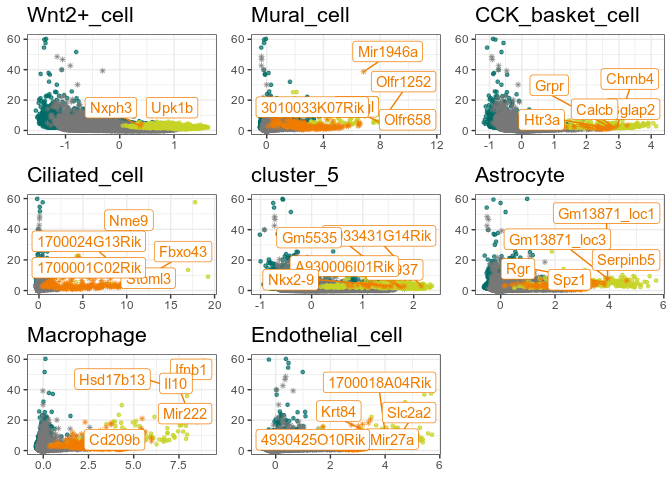
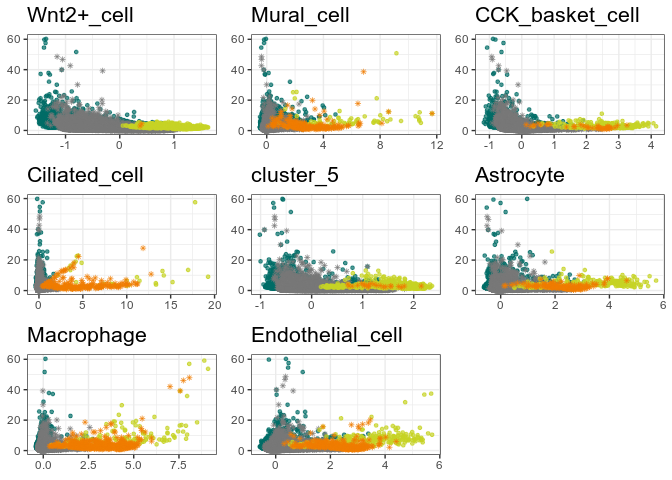
update readme

diff --git a/README.md b/README.md
@@ -13,9 +13,6 @@ can be installed through GitHub:
 devtools::install_github("ClemensKohl/CAdir")
 ```
 
-    Skipping install of 'CAdir' from a github remote, the SHA1 (7528e640) has not changed since last install.
-      Use `force = TRUE` to force installation
-
 Note that currently you have to also install CAbiNet from GitHub for the
 package to function.
 
@@ -24,119 +21,25 @@ package to function.
 Download example data and perform basic preprocessing:
 
 ``` r
-devtools::load_all("~/gits/ClemensKohl/CAdir/")
+suppressPackageStartupMessages({
+  library(CAdir)
+  library(APL)
+
+  # packages for loading the example:
+  library(scRNAseq)
+  library(scran)
+  library(scater)
+  library(scuttle)
+})
 ```
 
-    ℹ Loading CAdir
-
-    Warning: multiple methods tables found for 'acbind'
-
-    Warning: multiple methods tables found for 'arbind'
-
-    Warning: replacing previous import 'utils::findMatches' by
-    'S4Vectors::findMatches' when loading 'AnnotationDbi'
-
-``` r
-library(APL)
-
-# packages for loading the example:
-library(scRNAseq)
-```
-
-    Loading required package: SingleCellExperiment
-    Loading required package: SummarizedExperiment
-    Loading required package: MatrixGenerics
-    Loading required package: matrixStats
-
-    Attaching package: 'MatrixGenerics'
-
-    The following objects are masked from 'package:matrixStats':
-
-        colAlls, colAnyNAs, colAnys, colAvgsPerRowSet, colCollapse,
-        colCounts, colCummaxs, colCummins, colCumprods, colCumsums,
-        colDiffs, colIQRDiffs, colIQRs, colLogSumExps, colMadDiffs,
-        colMads, colMaxs, colMeans2, colMedians, colMins, colOrderStats,
-        colProds, colQuantiles, colRanges, colRanks, colSdDiffs, colSds,
-        colSums2, colTabulates, colVarDiffs, colVars, colWeightedMads,
-        colWeightedMeans, colWeightedMedians, colWeightedSds,
-        colWeightedVars, rowAlls, rowAnyNAs, rowAnys, rowAvgsPerColSet,
-        rowCollapse, rowCounts, rowCummaxs, rowCummins, rowCumprods,
-        rowCumsums, rowDiffs, rowIQRDiffs, rowIQRs, rowLogSumExps,
-        rowMadDiffs, rowMads, rowMaxs, rowMeans2, rowMedians, rowMins,
-        rowOrderStats, rowProds, rowQuantiles, rowRanges, rowRanks,
-        rowSdDiffs, rowSds, rowSums2, rowTabulates, rowVarDiffs, rowVars,
-        rowWeightedMads, rowWeightedMeans, rowWeightedMedians,
-        rowWeightedSds, rowWeightedVars
-
-    Loading required package: GenomicRanges
-    Loading required package: stats4
-    Loading required package: BiocGenerics
-
-    Attaching package: 'BiocGenerics'
-
-    The following objects are masked from 'package:stats':
-
-        IQR, mad, sd, var, xtabs
-
-    The following objects are masked from 'package:base':
-
-        Filter, Find, Map, Position, Reduce, anyDuplicated, aperm, append,
-        as.data.frame, basename, cbind, colnames, dirname, do.call,
-        duplicated, eval, evalq, get, grep, grepl, intersect, is.unsorted,
-        lapply, mapply, match, mget, order, paste, pmax, pmax.int, pmin,
-        pmin.int, rank, rbind, rownames, sapply, setdiff, table, tapply,
-        union, unique, unsplit, which.max, which.min
-
-    Loading required package: S4Vectors
-
-    Attaching package: 'S4Vectors'
-
-    The following object is masked from 'package:utils':
-
-        findMatches
-
-    The following objects are masked from 'package:base':
-
-        I, expand.grid, unname
-
-    Loading required package: IRanges
-    Loading required package: GenomeInfoDb
-    Loading required package: Biobase
-    Welcome to Bioconductor
-
-        Vignettes contain introductory material; view with
-        'browseVignettes()'. To cite Bioconductor, see
-        'citation("Biobase")', and for packages 'citation("pkgname")'.
-
-
-    Attaching package: 'Biobase'
-
-    The following object is masked from 'package:MatrixGenerics':
-
-        rowMedians
-
-    The following objects are masked from 'package:matrixStats':
-
-        anyMissing, rowMedians
+    Warning: replacing previous import 'S4Arrays::makeNindexFromArrayViewport' by
+    'DelayedArray::makeNindexFromArrayViewport' when loading 'SummarizedExperiment'
 
     Warning: replacing previous import 'S4Arrays::makeNindexFromArrayViewport' by
     'DelayedArray::makeNindexFromArrayViewport' when loading 'HDF5Array'
 
 ``` r
-library(scran)
-```
-
-    Loading required package: scuttle
-
-``` r
-library(scater)
-```
-
-    Loading required package: ggplot2
-
-``` r
-library(scuttle)
-
 set.seed(2358)
 
 sce <- scRNAseq::ZeiselBrainData()
@@ -268,8 +171,6 @@ plot_clusters(
   cadir = cadir,
   caobj = ca,
   show_genes = TRUE,
-  label_genes = TRUE,
-  ntop = 5,
   title_prefix = "",
   axis = TRUE
 )
